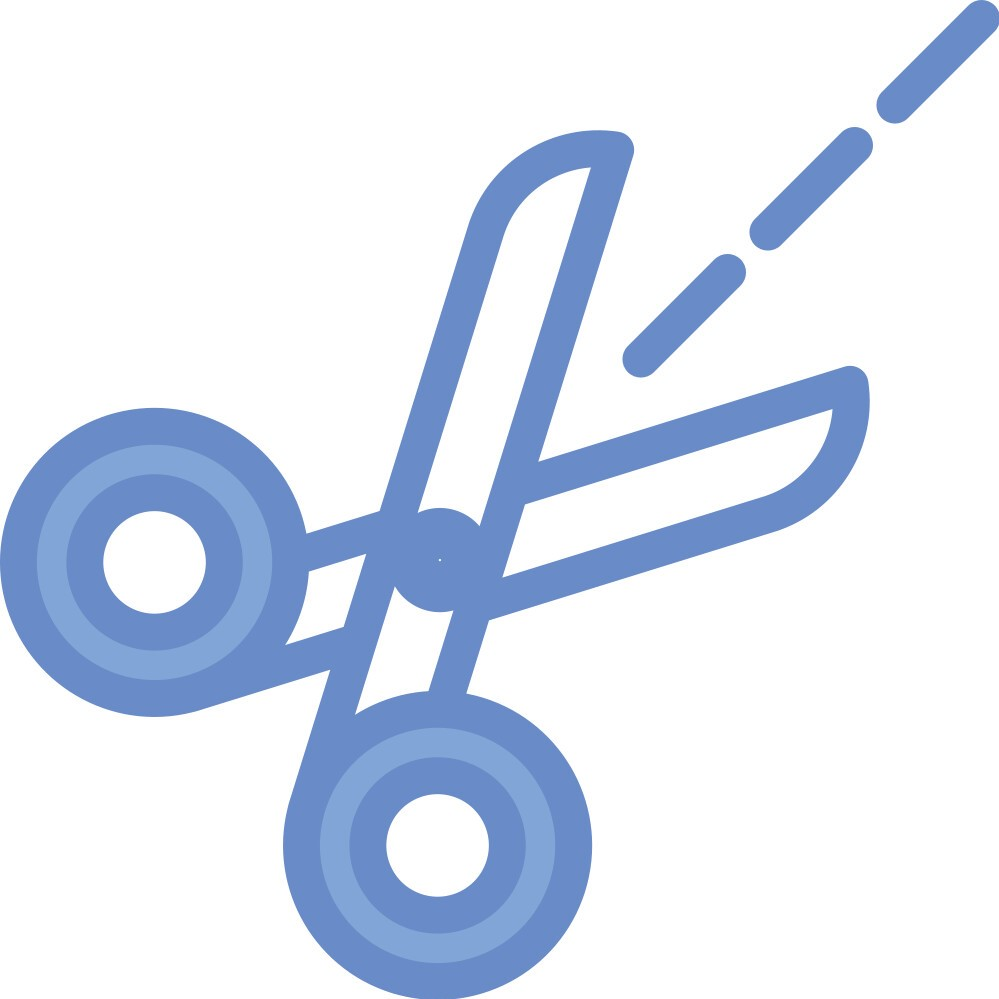
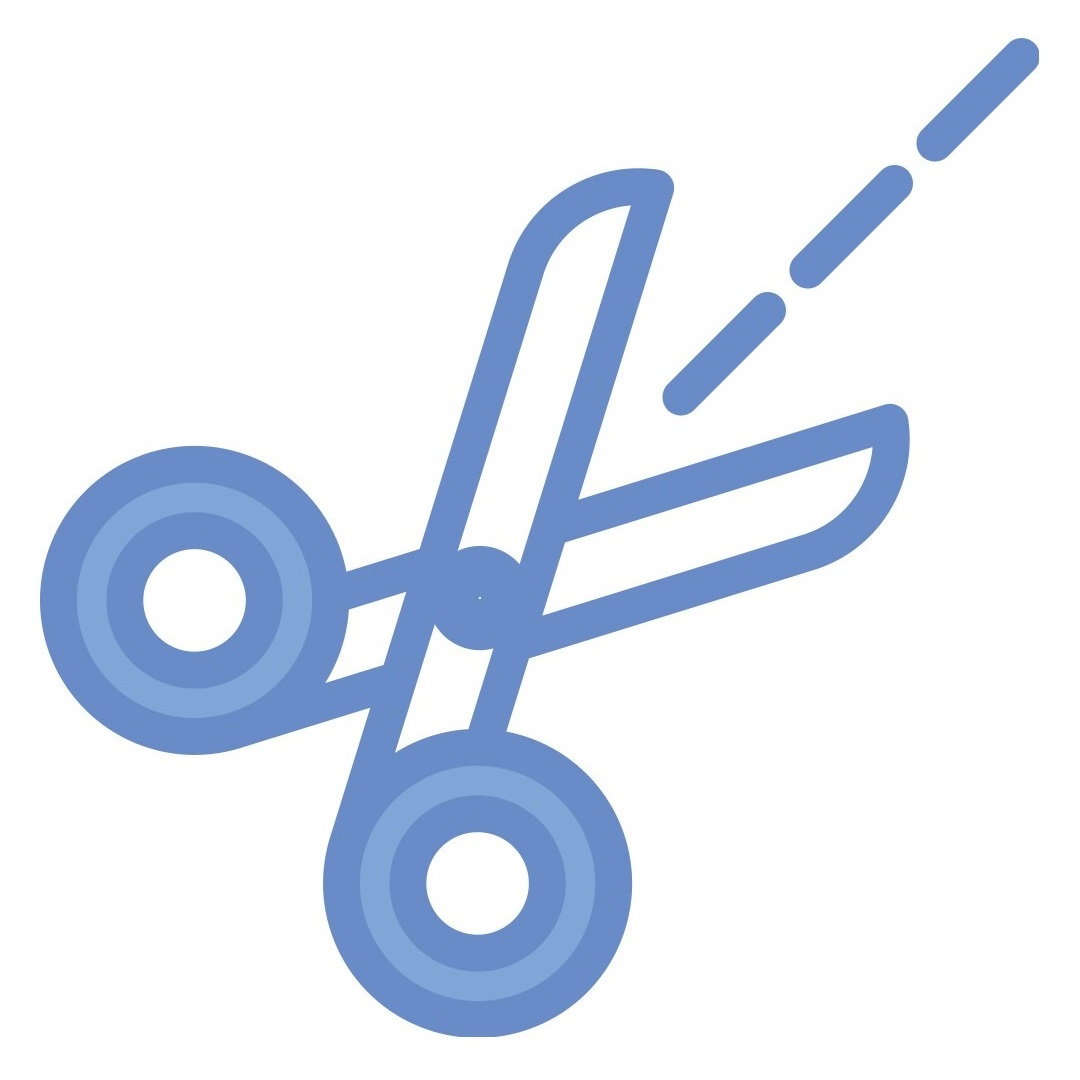
Add area selection and EditableImage class

diff --git a/components/tools/editImageTool.js b/components/tools/editImageTool.js
@@ -1,38 +1,95 @@
 class EditImageTool extends ToolItem {
   constructor(name) {
     super(name);
+    this.mode = "select"; // 'select' is the default mode
+    this.image = null; // no selected image by default
+    this.startMouseX = -1;
+    this.startMouseY = -1;
   }
 
-  draw(){
+  draw() {
+    let mouseOverCanvas =
+      mouseX >= 0 && mouseX < width && mouseY >= 0 && mouseX < height;
+
+      // mode 'select' - select the area, then save it to this.image
+    if (
+      mouseOverCanvas &&
+      mouseIsPressed &&
+      mouseButton === LEFT &&
+      this.mode === "select"
+    ) {
+      this.select();
+    } else if (this.startMouseX !== -1 && this.mode === "select") {
+      this.saveSelectedArea();
+    }
+
+    //
     // cursor(CROSS);
-
   }
 
-  populateOptions(){
-    console.log('populating options');
-    this.addButton('copy');
-    this.addButton('delete');
-    this.addButton('cut');
-    this.addButton('paste');
-
-
+  populateOptions() {
+    this.addButton("copy");
+    this.addButton("delete");
+    this.addButton("cut");
+    this.addButton("paste");
   }
-   addButton(name){
+
+  select() {
+    // selects an area for editing
+    console.log("selecting");
+    if (this.startMouseX === -1) {
+      // initialize the starting point of the selection
+      this.startMouseX = mouseX;
+      this.startMouseY = mouseY;
+
+      // save the state of the canvas
+      loadPixels();
+    } else {
+      // display the last saved state of pixels
+      updatePixels();
+
+      push();
+      drawingContext.setLineDash([5, 5]); // make lines dashed
+      fill(255, 255, 255, 0);
+
+      rect(
+        this.startMouseX,
+        this.startMouseY,
+        mouseX - this.startMouseX,
+        mouseY - this.startMouseY
+      );
+      pop();
+    }
+  }
+
+  saveSelectedArea() {
+    //construct a new editable object
+    this.image = new EditableImage(this.startMouseX, this.startMouseY);
+    console.log(this.image);
+    // resert the start values to default
+    this.startMouseX = -1;
+    this.startMouseY = -1;
+    this.mode = 'edit';
+  }
+
+  addButton(name) {
     const icon = `assets/${name}.jpg`;
+    //create a button
     const newBtn = createButton("");
     newBtn.id(`${name}Btn`);
     select(".options").child(newBtn);
+    //disable the buttons by default
+    select(`#${name}Btn`).attribute("disabled", "true");
 
     // add button icon
     const buttonImg = createImg(icon, name);
     buttonImg.id(`${name}Img`);
     buttonImg.parent(`${name}Btn`);
-   }
+  }
 
-  unselectTool(){
+  unselectTool() {
     console.log("Unselect edit image");
     //clear options
     select(".options").html("");
-
   }
 }

diff --git a/sketch.js b/sketch.js
@@ -21,7 +21,11 @@ function setup() {
   background(255);
   canvas.parent("content");
   canvas.mouseReleased(() =>
-    toolbox.selectedTool.name !== "mirrorDraw" && toolbox.selectedTool.name !=='rectangle' ? saveUndoSnapshot() : null
+    (toolbox.selectedTool.name !== "mirrorDraw" &&
+      toolbox.selectedTool.name !== "rectangle") &&
+    toolbox.selectedTool.name !== "editImage"
+      ? saveUndoSnapshot()
+      : null
   );
 
   //create the colour palette
@@ -43,7 +47,7 @@ function setup() {
   toolbox = new Toolbox();
 
   //add the tools to the toolbox.
-  toolbox.addTool( new EditImageTool('editImage', 'assets/editImage.jpg'));
+  toolbox.addTool(new EditImageTool("editImage", "assets/editImage.jpg"));
   toolbox.addTool(new FreehandTool());
   toolbox.addTool(new LineToTool());
   toolbox.addTool(new SprayCanTool());

diff --git a/components/utility/editableImage.js b/components/utility/editableImage.js
@@ -1,5 +1,12 @@
 class EditableImage {
-    constructor(image){
-        this.image = image;
-    }
+  constructor(x, y, image) {
+    this.selectedArea = {
+      x: x,
+      y: y,
+      width: mouseX - x,
+      height: mouseY - y,
+    };
+
+    this.image = get(x, y, this.selectedArea.width, this.selectedArea.height);
+  }
 }

diff --git a/style.css b/style.css
@@ -68,6 +68,7 @@ button img {
 button:hover:not([disabled]) {
   box-shadow: 1px 1px 3px rgba(190, 190, 190, 150);
 }
+
 button:disabled {
   background-color: dimgrey;
 }
